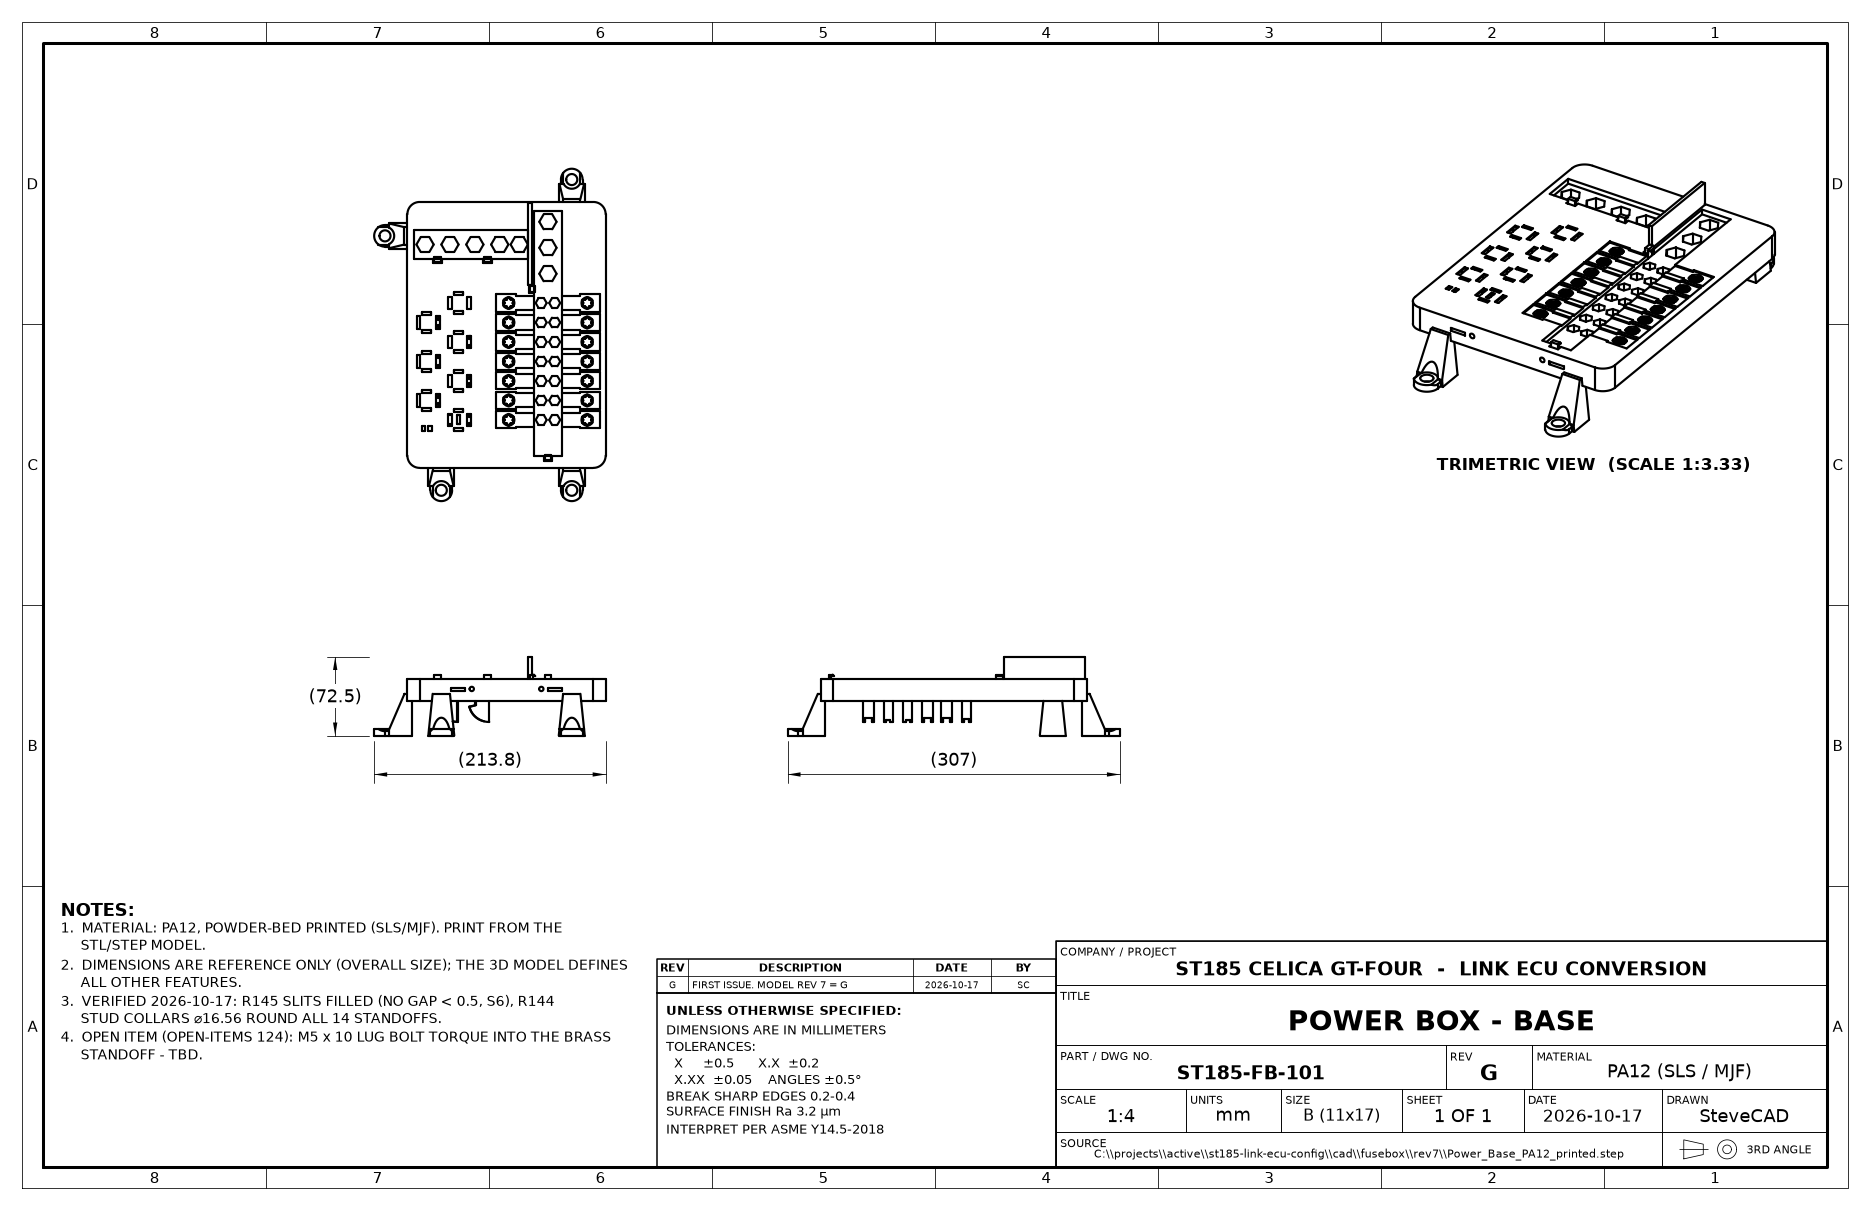
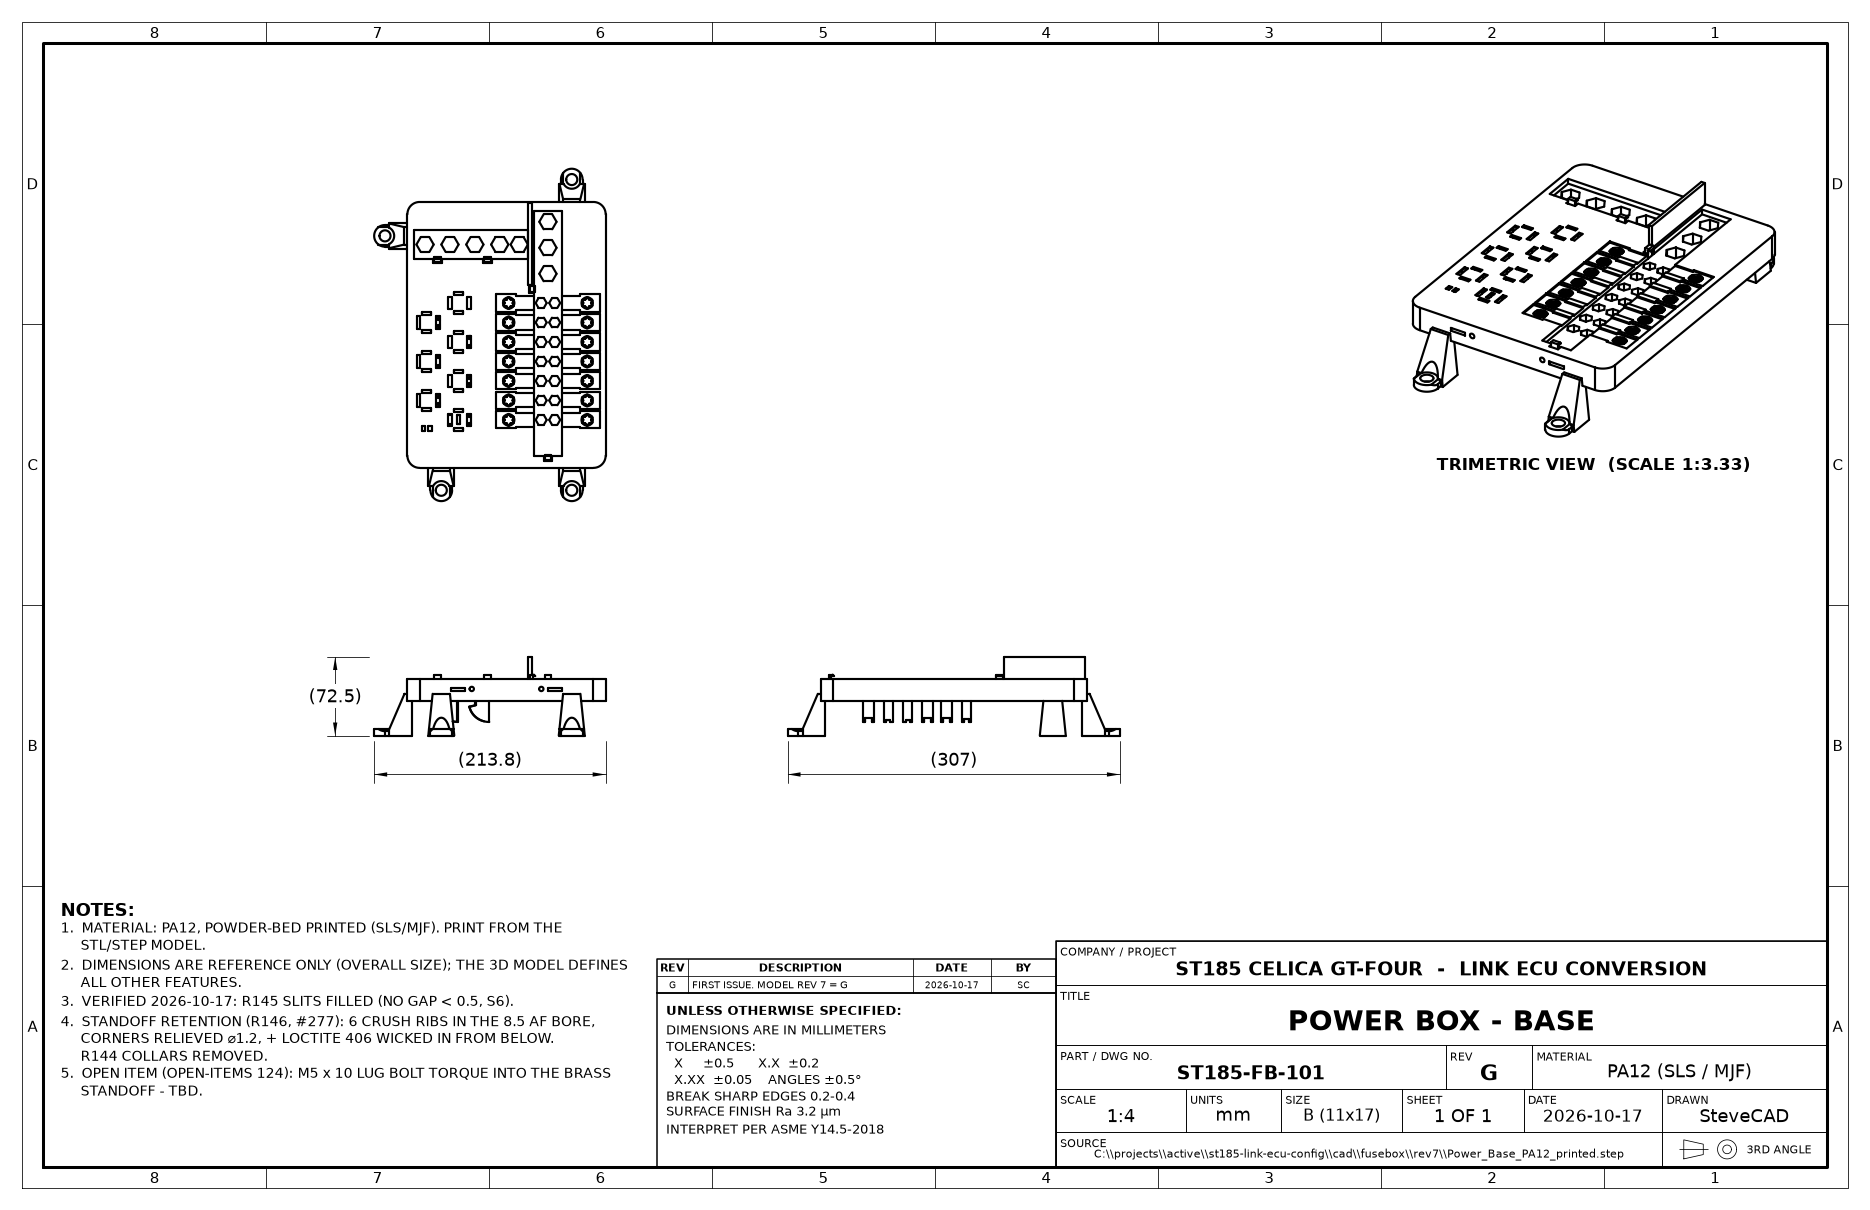
cad: FB-101 note follows the model - R146 crush-rib standoff retention (#277), R144 collars removed; rev 7 = G open point
Rows: 125

The rev 7 STEP files (re-exported 2026-10-17 08:44 with #277) have no R144 collars and carry the R146 crush ribs (r 0.55) and D1.2 corner reliefs; the old note said the collars were verified. Register: rev 7 = G, with the in-place rev 7 changes (#266 #268 #272 #273 #275 #277) listed as an open point for Dan.

Changed region(s): [[0.031, 0.8256, 0.3102, 0.9174]]

diff --git a/cad/DRAWING-REVS.md b/cad/DRAWING-REVS.md
@@ -36,21 +36,21 @@ Rev A is only for a brand-new model. An existing model: rev number -> letter (re
 | ST185-CSB3-102 | C | No rev number. PRs that changed the lid: #139 first release (A), #272 F09 D-hole corners R3 (B), #273 R132 lid loft D62 x 6 (C). Not counted: #274 (`csb3_lockin.py` edits the body only). |
 | ST185-VRC-103 | D | No rev number on the file ("v2" in #267 names a design pass, not the current rev). PRs that changed the holder: #239 first model (A), #267 holder v2 (B), #272 recess height follows the F02 boss (C), #273 N4 +2.5 mm, lead reliefs, M6 x 14 (D). Not counted: #266 (print-file export), #275 (comment only). |
 | ST185-DRB-101 | C | No rev number. PRs that changed the plate (`build_DRB102_plate.py`): #143 first in the repo (A), #272 D1 / F08 / OPEN-10 groove (B), #275 M5 tapped through (C). Not counted: #189 (trimetric only). |
-| ST185-FB-101 | G | Rev number 7 (folder `cad/fusebox/rev7/`, `ST185_fusebox_rev7.f3d`) = G. |
-| ST185-FB-102 | G | Rev number 7 (folder `cad/fusebox/rev7/`, `ST185_fusebox_rev7.f3d`) = G. |
-| ST185-FB-103 | G | Rev number 7 (folder `cad/fusebox/rev7/`, `ST185_fusebox_rev7.f3d`) = G. |
-| ST185-FB-104 | G | Rev number 7 (folder `cad/fusebox/rev7/`, `ST185_fusebox_rev7.f3d`) = G. |
-| ST185-FB-105 | G | Rev number 7 (folder `cad/fusebox/rev7/`, `ST185_fusebox_rev7.f3d`) = G. |
-| ST185-FB-106 | G | Rev number 7 (folder `cad/fusebox/rev7/`, `ST185_fusebox_rev7.f3d`) = G. |
-| ST185-FB-107 | G | Rev number 7 (folder `cad/fusebox/rev7/`, `ST185_fusebox_rev7.f3d`) = G. |
-| ST185-FB-108 | G | Rev number 7 (folder `cad/fusebox/rev7/`, `ST185_fusebox_rev7.f3d`) = G. |
-| ST185-FB-109 | G | Rev number 7 (folder `cad/fusebox/rev7/`, `ST185_fusebox_rev7.f3d`) = G. |
-| ST185-FB-111 | G | Rev number 7 (folder `cad/fusebox/rev7/`, `ST185_fusebox_rev7.f3d`) = G. |
-| ST185-FB-112 | G | Rev number 7 (folder `cad/fusebox/rev7/`, `ST185_fusebox_rev7.f3d`) = G. |
-| ST185-FB-113 | G | Rev number 7 (folder `cad/fusebox/rev7/`, `ST185_fusebox_rev7.f3d`) = G. |
-| ST185-FB-114 | G | Rev number 7 (folder `cad/fusebox/rev7/`, `ST185_fusebox_rev7.f3d`) = G. |
-| ST185-FB-115 | G | Rev number 7 (folder `cad/fusebox/rev7/`, `ST185_fusebox_rev7.f3d`) = G. |
-| ST185-FB-116 | G | Rev number 7 (folder `cad/fusebox/rev7/`, `ST185_fusebox_rev7.f3d`) = G. |
+| ST185-FB-101 | G | Rev number 7 (folder `cad/fusebox/rev7/`, `ST185_fusebox_rev7.f3d`) = G. Open for Dan: the rev 7 parts were changed in place after the rev 7 rebuild (#265) by #266, #268, #272, #273, #275, #277 without a new rev number; the rule takes the number, so G. |
+| ST185-FB-102 | G | Rev number 7 (folder `cad/fusebox/rev7/`, `ST185_fusebox_rev7.f3d`) = G. Open for Dan: the rev 7 parts were changed in place after the rev 7 rebuild (#265) by #266, #268, #272, #273, #275, #277 without a new rev number; the rule takes the number, so G. |
+| ST185-FB-103 | G | Rev number 7 (folder `cad/fusebox/rev7/`, `ST185_fusebox_rev7.f3d`) = G. Open for Dan: the rev 7 parts were changed in place after the rev 7 rebuild (#265) by #266, #268, #272, #273, #275, #277 without a new rev number; the rule takes the number, so G. |
+| ST185-FB-104 | G | Rev number 7 (folder `cad/fusebox/rev7/`, `ST185_fusebox_rev7.f3d`) = G. Open for Dan: the rev 7 parts were changed in place after the rev 7 rebuild (#265) by #266, #268, #272, #273, #275, #277 without a new rev number; the rule takes the number, so G. |
+| ST185-FB-105 | G | Rev number 7 (folder `cad/fusebox/rev7/`, `ST185_fusebox_rev7.f3d`) = G. Open for Dan: the rev 7 parts were changed in place after the rev 7 rebuild (#265) by #266, #268, #272, #273, #275, #277 without a new rev number; the rule takes the number, so G. |
+| ST185-FB-106 | G | Rev number 7 (folder `cad/fusebox/rev7/`, `ST185_fusebox_rev7.f3d`) = G. Open for Dan: the rev 7 parts were changed in place after the rev 7 rebuild (#265) by #266, #268, #272, #273, #275, #277 without a new rev number; the rule takes the number, so G. |
+| ST185-FB-107 | G | Rev number 7 (folder `cad/fusebox/rev7/`, `ST185_fusebox_rev7.f3d`) = G. Open for Dan: the rev 7 parts were changed in place after the rev 7 rebuild (#265) by #266, #268, #272, #273, #275, #277 without a new rev number; the rule takes the number, so G. |
+| ST185-FB-108 | G | Rev number 7 (folder `cad/fusebox/rev7/`, `ST185_fusebox_rev7.f3d`) = G. Open for Dan: the rev 7 parts were changed in place after the rev 7 rebuild (#265) by #266, #268, #272, #273, #275, #277 without a new rev number; the rule takes the number, so G. |
+| ST185-FB-109 | G | Rev number 7 (folder `cad/fusebox/rev7/`, `ST185_fusebox_rev7.f3d`) = G. Open for Dan: the rev 7 parts were changed in place after the rev 7 rebuild (#265) by #266, #268, #272, #273, #275, #277 without a new rev number; the rule takes the number, so G. |
+| ST185-FB-111 | G | Rev number 7 (folder `cad/fusebox/rev7/`, `ST185_fusebox_rev7.f3d`) = G. Open for Dan: the rev 7 parts were changed in place after the rev 7 rebuild (#265) by #266, #268, #272, #273, #275, #277 without a new rev number; the rule takes the number, so G. |
+| ST185-FB-112 | G | Rev number 7 (folder `cad/fusebox/rev7/`, `ST185_fusebox_rev7.f3d`) = G. Open for Dan: the rev 7 parts were changed in place after the rev 7 rebuild (#265) by #266, #268, #272, #273, #275, #277 without a new rev number; the rule takes the number, so G. |
+| ST185-FB-113 | G | Rev number 7 (folder `cad/fusebox/rev7/`, `ST185_fusebox_rev7.f3d`) = G. Open for Dan: the rev 7 parts were changed in place after the rev 7 rebuild (#265) by #266, #268, #272, #273, #275, #277 without a new rev number; the rule takes the number, so G. |
+| ST185-FB-114 | G | Rev number 7 (folder `cad/fusebox/rev7/`, `ST185_fusebox_rev7.f3d`) = G. Open for Dan: the rev 7 parts were changed in place after the rev 7 rebuild (#265) by #266, #268, #272, #273, #275, #277 without a new rev number; the rule takes the number, so G. |
+| ST185-FB-115 | G | Rev number 7 (folder `cad/fusebox/rev7/`, `ST185_fusebox_rev7.f3d`) = G. Open for Dan: the rev 7 parts were changed in place after the rev 7 rebuild (#265) by #266, #268, #272, #273, #275, #277 without a new rev number; the rule takes the number, so G. |
+| ST185-FB-116 | G | Rev number 7 (folder `cad/fusebox/rev7/`, `ST185_fusebox_rev7.f3d`) = G. Open for Dan: the rev 7 parts were changed in place after the rev 7 rebuild (#265) by #266, #268, #272, #273, #275, #277 without a new rev number; the rule takes the number, so G. |
 
 The older Fusion drawings `cad/enclosures/csb3/ST185-CSB3-enclosure-drawing.pdf` and `cad/enclosures/vrc/ST185-VRC-enclosure-drawing.pdf` and their 2026-10-17 markups are kept as they are (no rev letter assigned).
 
